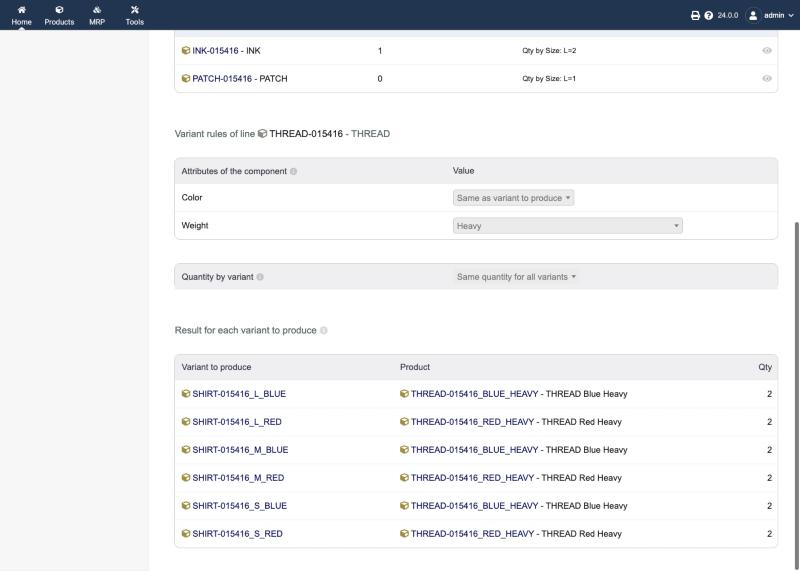
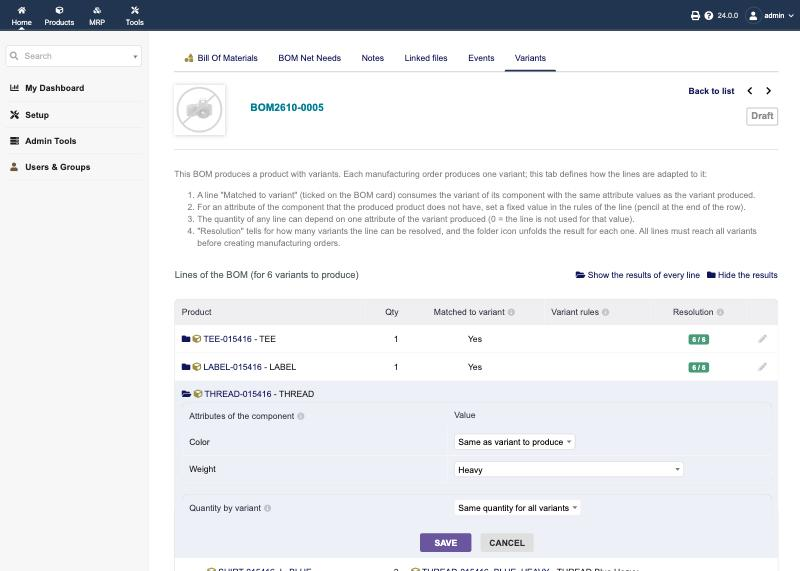
Variants tab: edit lines in place, fold/unfold results per variant, resolution badge
- The pencil turns the line into its rules editor with Save / Cancel in
  the row, like a document line; a failed save reopens the row with the
  values entered. The eye icon and the panel at the bottom are gone.
- A folder icon in front of each line unfolds the result of the line for
  every variant to produce as sub-rows; links above the table unfold or
  fold them all. A line being edited keeps its results unfolded.
- The resolution is a badge: green "6 / 6", orange when some variants
  cannot be resolved.
- Fix: a non numeric quantity by variant (e.g. "abc") was saved as 0;
  it is now refused.

diff --git a/module/js/variablebom.js b/module/js/variablebom.js
@@ -94,6 +94,25 @@ jQuery(function ($) {
 		$('#fk_bom').trigger('change.select2');
 	}
 
+	// Variants tab of a BOM: fold / unfold the result of a line for each variant to produce
+	function setFolded($line, folded) {
+		$('.variablebom_sub[data-parent="' + $line.data('line') + '"]').toggle(!folded);
+		$line.find('.variablebom_fold_closed').toggle(folded);
+		$line.find('.variablebom_fold_open').toggle(!folded);
+	}
+	$('.variablebom_fold').on('click', function (e) {
+		e.preventDefault();
+		setFolded($(this), $(this).find('.variablebom_fold_open').is(':visible'));
+	});
+	$('.variablebom_showall').on('click', function (e) {
+		e.preventDefault();
+		$('.variablebom_fold').each(function () { setFolded($(this), false); });
+	});
+	$('.variablebom_hideall').on('click', function (e) {
+		e.preventDefault();
+		$('.variablebom_fold').each(function () { setFolded($(this), true); });
+	});
+
 	$('select.variablebom_qtyattr').on('change', function () {
 		$('.variablebom_qty').hide();
 		$('.variablebom_qty_' + $(this).val()).show();

diff --git a/module/bom_variants.php b/module/bom_variants.php
@@ -118,12 +118,13 @@ if (empty($reshook)) {
 		$qtyattrid = GETPOSTINT('qty_attr');
 		if ($qtyattrid > 0 && isset($producedattributes[$qtyattrid])) {
 			foreach (array_keys($producedattributes[$qtyattrid]['values']) as $valid) {
-				$qty = GETPOST('qty_'.$qtyattrid.'_'.$valid, 'alpha');
+				$qty = trim(GETPOST('qty_'.$qtyattrid.'_'.$valid, 'alpha'));
 				if ($qty === '') {
 					continue;
 				}
+				$isnumber = (bool) preg_match('/^[0-9\s.,]+$/', $qty);	// price2num() turns any text into 0, so check the input first
 				$qty = price2num($qty, 'MS');
-				if (!is_numeric($qty) || $qty < 0) {
+				if (!$isnumber || !is_numeric($qty) || $qty < 0) {
 					$error++;
 					setEventMessages($langs->trans('ErrorFieldFormat', $langs->transnoentitiesnoconv('Qty')), null, 'errors');
 					break;
@@ -161,11 +162,15 @@ if (empty($reshook)) {
 			if (!$error) {
 				$db->commit();
 				setEventMessages($langs->trans('VariableBomRulesSaved'), null, 'mesgs');
-				header('Location: '.$_SERVER['PHP_SELF'].'?id='.$object->id.'&lineid='.$line->id);
+				header('Location: '.$backtotab);
 				exit;
 			} else {
 				$db->rollback();
 			}
+		}
+
+		if ($action == 'save' && $error) {
+			$action = 'editline';	// Show the line in edit mode again, with the values entered
 		}
 	}
 }
@@ -208,22 +213,27 @@ foreach (array('VariableBomTabStep1', 'VariableBomTabStep2', 'VariableBomTabStep
 }
 print '</ol>';
 
-// Load in one request the products of the lines and of the variants to produce, to show them
+// Resolve every line for every variant to produce. $results[lineid][variantid] = resolved line, null (line not used) or error string
+$variants = $resolver->getVariantCombinations($object->fk_product);
+$results = array();
 $productids = array();
 foreach ($object->lines as $tmpline) {
 	$productids[(int) $tmpline->fk_product] = (int) $tmpline->fk_product;
-}
-$results = array();
-if (is_object($line)) {
-	foreach (array_keys($resolver->getVariantCombinations($object->fk_product)) as $fk_product_variant) {
-		$resolvedlines = $resolver->getLinesForVariant($object, $fk_product_variant, $line->id);
-		$results[$fk_product_variant] = (is_array($resolvedlines) ? reset($resolvedlines) : implode(' ', $resolver->errors));
+	foreach (array_keys($variants) as $fk_product_variant) {
 		$productids[$fk_product_variant] = $fk_product_variant;
-		if (is_object($results[$fk_product_variant])) {
-			$productids[$results[$fk_product_variant]->fk_product] = $results[$fk_product_variant]->fk_product;
+		$resolvedlines = $resolver->getLinesForVariant($object, $fk_product_variant, $tmpline->id);
+		if (!is_array($resolvedlines)) {
+			$results[$tmpline->id][$fk_product_variant] = implode(' ', $resolver->errors);
+		} elseif (empty($resolvedlines)) {
+			$results[$tmpline->id][$fk_product_variant] = null;
+		} else {
+			$results[$tmpline->id][$fk_product_variant] = reset($resolvedlines);
+			$productids[(int) $results[$tmpline->id][$fk_product_variant]->fk_product] = (int) $results[$tmpline->id][$fk_product_variant]->fk_product;
 		}
 	}
 }
+
+// Load in one request the products to show
 $products = array();
 $sql = "SELECT p.rowid, p.ref, p.label, p.fk_product_type, p.entity, p.tosell, p.tobuy";
 $sql .= " FROM ".$db->prefix()."product as p";
@@ -246,153 +256,148 @@ if ($resql) {
 } else {
 	dol_print_error($db);
 }
+// Variants to produce, sorted on ref
+$variantids = array();
+foreach (array_keys($products) as $tmpid) {
+	if (isset($variants[$tmpid])) {
+		$variantids[] = $tmpid;
+	}
+}
 
-// Lines of the BOM with their rules
-print load_fiche_titre($langs->trans('VariableBomLines', count($resolver->getVariantCombinations($object->fk_product))), '', '');
+$morehtmlright = '<a href="#" class="variablebom_showall">'.img_picto('', 'folder-open', 'class="paddingright"').$langs->trans('VariableBomShowAllResults').'</a>';
+$morehtmlright .= ' &nbsp; <a href="#" class="variablebom_hideall">'.img_picto('', 'folder', 'class="paddingright"').$langs->trans('VariableBomHideAllResults').'</a>';
+print load_fiche_titre($langs->trans('VariableBomLines', count($variants)), $morehtmlright, '');
 
 print '<div class="div-table-responsive-no-min">';
-print '<table class="noborder centpercent">';
+print '<table class="noborder centpercent" id="variablebom_lines">';
 print '<tr class="liste_titre">';
 print '<td>'.$langs->trans('Product').'</td>';
 print '<td class="right">'.$langs->trans('Qty').'</td>';
 print '<td class="center">'.$form->textwithpicto($langs->trans('VariableBomLineMatch'), $langs->trans('VariableBomLineMatchHelp')).'</td>';
 print '<td>'.$form->textwithpicto($langs->trans('VariableBomRules'), $langs->trans('VariableBomRulesHelp')).'</td>';
-print '<td>'.$form->textwithpicto($langs->trans('VariableBomResolution'), $langs->trans('VariableBomResolutionHelp')).'</td>';
+print '<td class="center">'.$form->textwithpicto($langs->trans('VariableBomResolution'), $langs->trans('VariableBomResolutionHelp')).'</td>';
 print '<td></td>';
 print '</tr>';
+
 foreach ($object->lines as $tmpline) {
 	$tmpproduct = (empty($products[$tmpline->fk_product]) ? null : $products[$tmpline->fk_product]);
-	print '<tr class="oddeven'.((is_object($line) && $line->id == $tmpline->id) ? ' highlight' : '').'">';
-	print '<td class="tdoverflowmax300">'.(is_object($tmpproduct) ? $tmpproduct->getNomUrl(1).' - '.dolPrintLabel($tmpproduct->label) : '').'</td>';
-	print '<td class="right">'.price($tmpline->qty, 0, '', 0, 0).'</td>';
-	print '<td class="center">'.(empty($matchedlineids[$tmpline->id]) ? '' : yn(1)).'</td>';
-	print '<td class="small">'.variablebomLineRulesSummary($resolver, $object, $tmpline).'</td>';
-	print '<td class="small">';
-	if (!empty($matchedlineids[$tmpline->id])) {
-		list($nbok, $nbvariants) = variablebomLineResolvedCount($resolver, $object, $tmpline);
-		$text = $langs->trans('VariableBomResolvedCount', $nbok, $nbvariants);
-		print ($nbok < $nbvariants ? img_warning($text).' <span class="warning">'.$text.'</span>' : '<span class="opacitymedium">'.$text.'</span>');
-	}
-	print '</td>';
-	print '<td class="right"><a class="editfielda" href="'.$_SERVER['PHP_SELF'].'?id='.$object->id.'&lineid='.$tmpline->id.'">';
-	print img_picto($langs->trans('VariableBomRules'), $permissiontoadd ? 'edit' : 'eye');
-	print '</a></td>';
-	print '</tr>';
-}
-print '</table>';
-print '</div>';
+	$ismatched = !empty($matchedlineids[$tmpline->id]);
+	$isedit = ($action == 'editline' && $permissiontoadd && is_object($line) && $line->id == $tmpline->id);
 
-if (!is_object($line)) {
-	llxFooter();
-	$db->close();
-	exit;
-}
-
-// Rules of the selected line
-$component = $products[$line->fk_product];
-$currentfixedvalues = array();
-$currentqtys = array();
-$currentqtyattrid = 0;
-foreach ($resolver->getRulesOfLine($object, $line->id) as $rule) {
-	if ($rule->rule_type == VariableBomRule::RULE_FIXEDVALUE) {
-		$currentfixedvalues[$rule->fk_prod_attr] = $rule->fk_prod_attr_val;
-	} elseif ($rule->rule_type == VariableBomRule::RULE_QTY) {
-		$currentqtyattrid = $rule->fk_prod_attr;
-		$currentqtys[$rule->fk_prod_attr][$rule->fk_prod_attr_val] = $rule->qty;
-	}
-}
-if (GETPOSTISSET('qty_attr')) {
-	$currentqtyattrid = GETPOSTINT('qty_attr');
-}
-$disabled = ($permissiontoadd ? '' : ' disabled="disabled"');
-
-print '<br>';
-print load_fiche_titre($langs->trans('VariableBomRulesOfLine').' '.$component->getNomUrl(1).' - '.dolPrintLabel($component->label), '', '');
-
-print '<form method="POST" action="'.$_SERVER['PHP_SELF'].'">';
-print '<input type="hidden" name="token" value="'.newToken().'">';
-print '<input type="hidden" name="action" value="save">';
-print '<input type="hidden" name="id" value="'.$object->id.'">';
-print '<input type="hidden" name="lineid" value="'.$line->id.'">';
-
-// Attributes of the component
-if (!empty($matchedlineids[$line->id])) {
-	print '<div class="div-table-responsive-no-min">';
-	print '<table class="noborder centpercent">';
-	print '<tr class="liste_titre"><td class="titlefieldmiddle">'.$form->textwithpicto($langs->trans('VariableBomComponentAttributes'), $langs->trans('VariableBomComponentAttributesHelp')).'</td><td>'.$langs->trans('Value').'</td></tr>';
-	foreach ($componentattributes as $attrid => $attribute) {
-		$isshared = isset($producedattributes[$attrid]);
-		$selected = (GETPOSTISSET('fixedvalue_'.$attrid) ? GETPOSTINT('fixedvalue_'.$attrid) : (empty($currentfixedvalues[$attrid]) ? 0 : $currentfixedvalues[$attrid]));
-
-		print '<tr class="oddeven"><td>'.dolPrintLabel($attribute['label']).'</td><td>';
-		$options = array(0 => ($isshared ? $langs->trans('VariableBomSameAsProduced') : $langs->trans('VariableBomChooseValue')));
-		$options += $attribute['values'];
-		print $form->selectarray('fixedvalue_'.$attrid, $options, $selected, 0, 0, 0, '', 0, 0, ($permissiontoadd ? 0 : 1), '', 'minwidth200');
-		if (!$isshared && empty($selected)) {
-			print ' '.img_warning($langs->trans('ErrorVariableBomAttributeNotDefined', $component->ref, $attribute['label']));
+	$nbok = 0;
+	foreach ($results[$tmpline->id] as $result) {
+		if (!is_string($result)) {
+			$nbok++;
 		}
-		print '</td></tr>';
 	}
-	print '</table>';
-	print '</div>';
-	print '<br>';
-}
+	$badge = dolGetBadge($nbok.' / '.count($variants), '', ($nbok < count($variants) ? 'warning' : 'success'));
 
-if (empty($matchedlineids[$line->id])) {
-	print '<div class="opacitymedium">'.$langs->trans('VariableBomLineNotMatchedNote').'</div><br>';
-}
+	// Toggle of the results of the line
+	$fold = '<a href="#" class="variablebom_fold" data-line="'.((int) $tmpline->id).'" title="'.dolPrintHTMLForAttribute($langs->trans('VariableBomPreviewHelp')).'">';
+	$fold .= '<span class="variablebom_fold_closed"'.($isedit ? ' style="display: none"' : '').'>'.img_picto('', 'folder', 'class="paddingright"').'</span>';
+	$fold .= '<span class="variablebom_fold_open"'.($isedit ? '' : ' style="display: none"').'>'.img_picto('', 'folder-open', 'class="paddingright"').'</span>';
+	$fold .= '</a>';
 
-// Quantity by variant
-print '<div class="div-table-responsive-no-min">';
-print '<table class="noborder centpercent">';
-print '<tr class="liste_titre"><td class="titlefieldmiddle">'.$form->textwithpicto($langs->trans('VariableBomQtyByVariant'), $langs->trans('VariableBomQtyByVariantHelp')).'</td><td>';
-$options = array(0 => $langs->trans('VariableBomQtyNone'));
-foreach ($producedattributes as $attrid => $attribute) {
-	$options[$attrid] = $langs->trans('VariableBomQtyAttribute').' '.$attribute['label'];
-}
-print $form->selectarray('qty_attr', $options, $currentqtyattrid, 0, 0, 0, '', 0, 0, ($permissiontoadd ? 0 : 1), '', 'minwidth200 variablebom_qtyattr');
-print '</td></tr>';
-foreach ($producedattributes as $attrid => $attribute) {
-	foreach ($attribute['values'] as $valid => $vallabel) {
-		$value = (GETPOSTISSET('qty_'.$attrid.'_'.$valid) ? GETPOST('qty_'.$attrid.'_'.$valid, 'alpha') : (isset($currentqtys[$attrid][$valid]) ? price($currentqtys[$attrid][$valid], 0, '', 0, 0) : ''));
-		print '<tr class="oddeven variablebom_qty variablebom_qty_'.$attrid.'"'.($attrid == $currentqtyattrid ? '' : ' style="display: none"').'>';
-		print '<td>'.dolPrintLabel($attribute['label'].': '.$vallabel).'</td>';
-		print '<td><input type="text" class="flat right width75" name="qty_'.$attrid.'_'.$valid.'" value="'.dolPrintHTMLForAttribute($value).'" placeholder="'.dolPrintHTMLForAttribute(price($line->qty, 0, '', 0, 0)).'"'.$disabled.'></td>';
+	if ($isedit) {
+		// The line is edited in place: its rules, then Save / Cancel
+		$componentattributes = ($ismatched ? $resolver->getVariantAttributes($tmpline->fk_product) : array());
+		$currentfixedvalues = array();
+		$currentqtys = array();
+		$currentqtyattrid = 0;
+		foreach ($resolver->getRulesOfLine($object, $tmpline->id) as $rule) {
+			if ($rule->rule_type == VariableBomRule::RULE_FIXEDVALUE) {
+				$currentfixedvalues[$rule->fk_prod_attr] = $rule->fk_prod_attr_val;
+			} elseif ($rule->rule_type == VariableBomRule::RULE_QTY) {
+				$currentqtyattrid = $rule->fk_prod_attr;
+				$currentqtys[$rule->fk_prod_attr][$rule->fk_prod_attr_val] = $rule->qty;
+			}
+		}
+		if (GETPOSTISSET('qty_attr')) {
+			$currentqtyattrid = GETPOSTINT('qty_attr');
+		}
+
+		print '<tr class="oddeven tredited" id="variablebom_line_'.((int) $tmpline->id).'"><td colspan="6">';
+		print '<form method="POST" action="'.$_SERVER['PHP_SELF'].'">';
+		print '<input type="hidden" name="token" value="'.newToken().'">';
+		print '<input type="hidden" name="action" value="save">';
+		print '<input type="hidden" name="id" value="'.$object->id.'">';
+		print '<input type="hidden" name="lineid" value="'.$tmpline->id.'">';
+
+		print '<div class="paddingtop paddingbottom">'.$fold.(is_object($tmpproduct) ? $tmpproduct->getNomUrl(1).' - '.dolPrintLabel($tmpproduct->label) : '').'</div>';
+
+		if ($ismatched) {
+			print '<table class="noborder centpercent">';
+			print '<tr class="liste_titre"><td class="titlefieldmiddle">'.$form->textwithpicto($langs->trans('VariableBomComponentAttributes'), $langs->trans('VariableBomComponentAttributesHelp')).'</td><td>'.$langs->trans('Value').'</td></tr>';
+			foreach ($componentattributes as $attrid => $attribute) {
+				$isshared = isset($producedattributes[$attrid]);
+				$selected = (GETPOSTISSET('fixedvalue_'.$attrid) ? GETPOSTINT('fixedvalue_'.$attrid) : (empty($currentfixedvalues[$attrid]) ? 0 : $currentfixedvalues[$attrid]));
+				print '<tr class="oddeven"><td>'.dolPrintLabel($attribute['label']).'</td><td>';
+				$options = array(0 => ($isshared ? $langs->trans('VariableBomSameAsProduced') : $langs->trans('VariableBomChooseValue')));
+				$options += $attribute['values'];
+				print $form->selectarray('fixedvalue_'.$attrid, $options, $selected, 0, 0, 0, '', 0, 0, 0, '', 'minwidth200');
+				if (!$isshared && empty($selected)) {
+					print ' '.img_warning($langs->trans('ErrorVariableBomAttributeNotDefined', (is_object($tmpproduct) ? $tmpproduct->ref : ''), $attribute['label']));
+				}
+				print '</td></tr>';
+			}
+			print '</table>';
+		} else {
+			print '<div class="opacitymedium paddingbottom">'.$langs->trans('VariableBomLineNotMatchedNote').'</div>';
+		}
+
+		print '<table class="noborder centpercent">';
+		print '<tr class="liste_titre"><td class="titlefieldmiddle">'.$form->textwithpicto($langs->trans('VariableBomQtyByVariant'), $langs->trans('VariableBomQtyByVariantHelp')).'</td><td>';
+		$options = array(0 => $langs->trans('VariableBomQtyNone'));
+		foreach ($producedattributes as $attrid => $attribute) {
+			$options[$attrid] = $langs->trans('VariableBomQtyAttribute').' '.$attribute['label'];
+		}
+		print $form->selectarray('qty_attr', $options, $currentqtyattrid, 0, 0, 0, '', 0, 0, 0, '', 'minwidth200 variablebom_qtyattr');
+		print '</td></tr>';
+		foreach ($producedattributes as $attrid => $attribute) {
+			foreach ($attribute['values'] as $valid => $vallabel) {
+				$value = (GETPOSTISSET('qty_'.$attrid.'_'.$valid) ? GETPOST('qty_'.$attrid.'_'.$valid, 'alpha') : (isset($currentqtys[$attrid][$valid]) ? price($currentqtys[$attrid][$valid], 0, '', 0, 0) : ''));
+				print '<tr class="oddeven variablebom_qty variablebom_qty_'.$attrid.'"'.($attrid == $currentqtyattrid ? '' : ' style="display: none"').'>';
+				print '<td>'.dolPrintLabel($attribute['label'].': '.$vallabel).'</td>';
+				print '<td><input type="text" class="flat right width75" name="qty_'.$attrid.'_'.$valid.'" value="'.dolPrintHTMLForAttribute($value).'" placeholder="'.dolPrintHTMLForAttribute(price($tmpline->qty, 0, '', 0, 0)).'"></td>';
+				print '</tr>';
+			}
+		}
+		print '<tr class="oddeven variablebom_qty_help"'.($currentqtyattrid > 0 ? '' : ' style="display: none"').'><td colspan="2"><span class="opacitymedium">'.$langs->trans('VariableBomQtyHelp', price($tmpline->qty, 0, '', 0, 0)).'</span></td></tr>';
+		print '</table>';
+
+		print $form->buttonsSaveCancel('Save', 'Cancel');
+		print '</form>';
+		print '</td></tr>';
+	} else {
+		print '<tr class="oddeven" id="variablebom_line_'.((int) $tmpline->id).'">';
+		print '<td class="tdoverflowmax300">'.$fold.(is_object($tmpproduct) ? $tmpproduct->getNomUrl(1).' - '.dolPrintLabel($tmpproduct->label) : '').'</td>';
+		print '<td class="right">'.price($tmpline->qty, 0, '', 0, 0).'</td>';
+		print '<td class="center">'.($ismatched ? yn(1) : '').'</td>';
+		print '<td class="small">'.variablebomLineRulesSummary($resolver, $object, $tmpline).'</td>';
+		print '<td class="center">'.$badge.'</td>';
+		print '<td class="center nowraponall">';
+		if ($permissiontoadd) {
+			print '<a class="editfielda" href="'.$_SERVER['PHP_SELF'].'?id='.$object->id.'&action=editline&token='.newToken().'&lineid='.$tmpline->id.'">'.img_edit().'</a>';
+		}
+		print '</td>';
 		print '</tr>';
 	}
-}
-print '<tr class="oddeven variablebom_qty_help"'.($currentqtyattrid > 0 ? '' : ' style="display: none"').'><td colspan="2"><span class="opacitymedium">'.$langs->trans('VariableBomQtyHelp', price($line->qty, 0, '', 0, 0)).'</span></td></tr>';
-print '</table>';
-print '</div>';
 
-if ($permissiontoadd) {
-	print $form->buttonsSaveCancel('Save', 'Cancel');
-}
-
-print '</form>';
-
-// Result for each variant to produce
-print '<br>';
-print load_fiche_titre($form->textwithpicto($langs->trans('VariableBomPreview'), $langs->trans('VariableBomPreviewHelp')), '', '');
-
-print '<div class="div-table-responsive-no-min">';
-print '<table class="noborder centpercent">';
-print '<tr class="liste_titre"><td>'.$langs->trans('VariableBomVariantToProduce').'</td><td>'.$langs->trans('Product').'</td><td class="right">'.$langs->trans('Qty').'</td></tr>';
-foreach ($products as $fk_product_variant => $variantproduct) {
-	if (!array_key_exists($fk_product_variant, $results)) {
-		continue;	// Not a variant to produce
+	// Result of the line for each variant to produce (folded unless the line is edited)
+	foreach ($variantids as $fk_product_variant) {
+		$result = $results[$tmpline->id][$fk_product_variant];
+		print '<tr class="oddeven variablebom_sub" data-parent="'.((int) $tmpline->id).'"'.($isedit ? '' : ' style="display: none"').'>';
+		print '<td class="tdoverflowmax300" style="padding-left: 5%">'.img_picto('', 'rightarrow', 'class="paddingright opacitymedium"').$products[$fk_product_variant]->getNomUrl(1).'</td>';
+		if (is_string($result)) {
+			print '<td></td><td colspan="4">'.img_warning().' <span class="warning">'.dolPrintLabel($result).'</span></td>';
+		} elseif (empty($result) || empty($products[$result->fk_product])) {
+			print '<td></td><td colspan="4" class="opacitymedium">'.$langs->trans('VariableBomNotUsed').'</td>';
+		} else {
+			print '<td class="right">'.price($result->qty, 0, '', 0, 0).'</td>';
+			print '<td colspan="4">'.$products[$result->fk_product]->getNomUrl(1).' - '.dolPrintLabel($products[$result->fk_product]->label).'</td>';
+		}
+		print '</tr>';
 	}
-	$result = $results[$fk_product_variant];
-	print '<tr class="oddeven"><td class="tdoverflowmax300">'.$variantproduct->getNomUrl(1).'</td>';
-	if (is_string($result)) {
-		print '<td colspan="2">'.img_warning().' <span class="warning">'.dolPrintLabel($result).'</span></td>';
-	} elseif (empty($result) || empty($products[$result->fk_product])) {
-		print '<td class="opacitymedium">'.$langs->trans('VariableBomNotUsed').'</td><td></td>';
-	} else {
-		print '<td class="tdoverflowmax300">'.$products[$result->fk_product]->getNomUrl(1).' - '.dolPrintLabel($products[$result->fk_product]->label).'</td>';
-		print '<td class="right">'.price($result->qty, 0, '', 0, 0).'</td>';
-	}
-	print '</tr>';
 }
 print '</table>';
 print '</div>';

diff --git a/README.md b/README.md
@@ -71,8 +71,10 @@ The module refuses to tick a line whose product has no variants, or on a BOM who
 
 ### 2.3 Open the Variants tab and complete the rules
 
-The **Variants** tab lists every line with its rules and, for matched lines, a **Resolution** count: for how many of the
-variants to produce the component can be found. Click the pencil at the end of a row to edit its rules.
+The **Variants** tab lists every line with its rules and a **Resolution** badge: green `6 / 6` when the line can be
+resolved for every variant to produce, orange when some cannot. The folder icon in front of a line unfolds what that line
+becomes for each variant (the links above the table unfold or fold them all). Click the pencil at the end of a row to
+edit the line's rules in place, with Save and Cancel right there, like a document line.
 
 ![Variants tab](docs/variants-tab.jpg)
 
@@ -86,10 +88,10 @@ For each line you can set:
   quantity for each of its values. Empty means the line's own quantity; **0 means the line is not used** for that value.
   To use a line for some sizes only, set its quantity to 0 on the BOM card and enter a quantity for those sizes here.
 
-The table at the bottom, **Result for each variant to produce**, shows exactly what the line becomes for every variant.
-Check it before validating the BOM.
+While a line is being edited, its results for every variant stay unfolded under it, so you can check the effect of the
+rules right after saving.
 
-![Rules of a line and preview](docs/variants-tab-rules.jpg)
+![Editing the rules of a line in place](docs/variants-tab-rules.jpg)
 
 Every line should reach "Resolved for N of N variants" before you create orders. If one does not, open its rules: an
 attribute needs a fixed value, or the component does not exist in that variant.
